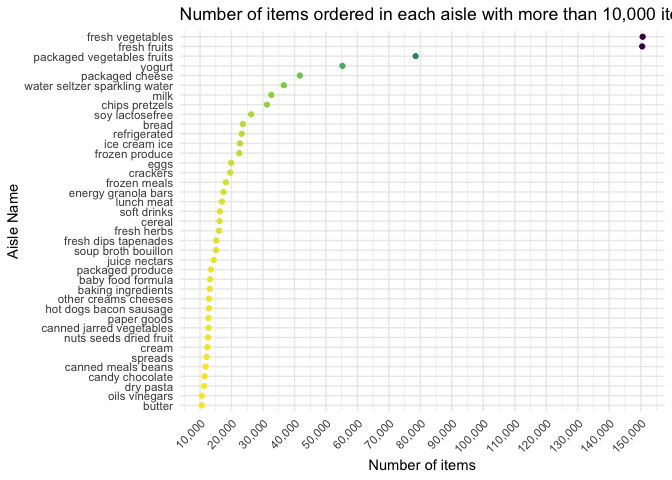
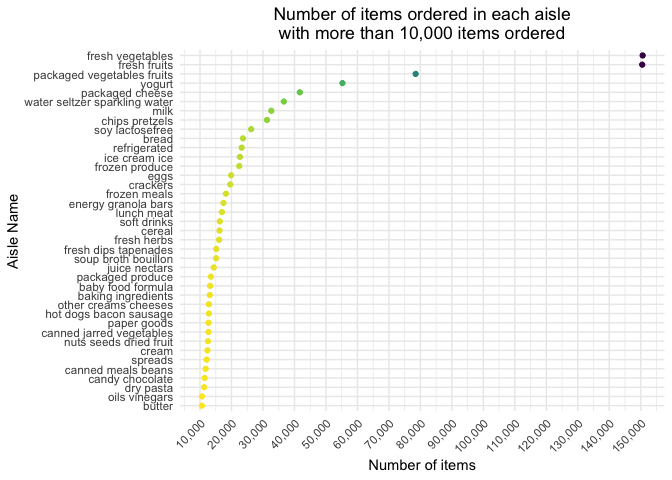
split title

Changed region(s): [[0.0312, 0.0625, 1.0, 0.8438], [0.25, 0.0, 1.0, 0.1562], [0.0, 0.375, 0.0312, 0.5625]]

diff --git a/p8105_hw3_mk4208.md b/p8105_hw3_mk4208.md
@@ -49,10 +49,10 @@ Instacart users.
       - `department_id`: department identifier
       - `aisle`: the name of the aisle
       - `department`: the name of the department
-  - The first obervation shows that User with User ID: **112108**
+  - The first observation shows that User with User ID: **112108**
     ordered **Bulgarian Yogurt** with the product ID: **49302** from the
     **yogurt** aisle of the **dairy eggs** department.
-  - The second obervation shows that User with User ID: **112108**
+  - The second observation shows that User with User ID: **112108**
     ordered **Organic 4% Milk Fat Whole Milk Cottage Cheese** with the
     product ID: **11109** from the **other creams cheeses** aisle of the
     **dairy eggs** department.
@@ -109,13 +109,14 @@ instacart %>%
     ) +
   coord_flip() + 
   theme_minimal() + 
-  theme(axis.text.x = element_text(angle = 45, hjust = 1)) +
-  theme(legend.position = "none") + 
+  ggtitle("Number of items ordered in each aisle\nwith more than 10,000 items ordered") + 
+  theme(legend.position = "none",
+        plot.title = element_text(hjust = 0.5),
+        axis.text.x = element_text(angle = 45, hjust = 1)) +
   labs(
     y = "Number of items", 
-    x = "Aisle Name", 
-    title = "Number of items ordered in each aisle with more than 10,000 items ordered"
-  )
+    x = "Aisle Name"
+  ) 
 ```
 
 ![](p8105_hw3_mk4208_files/figure-gfm/unnamed-chunk-4-1.png)<!-- -->
